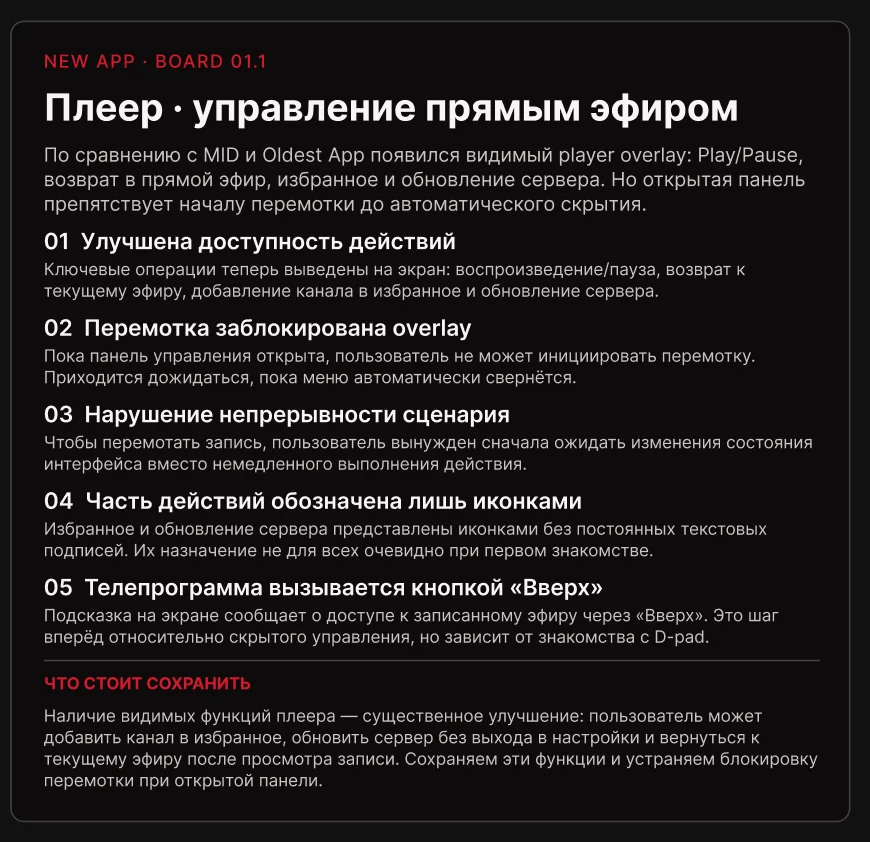
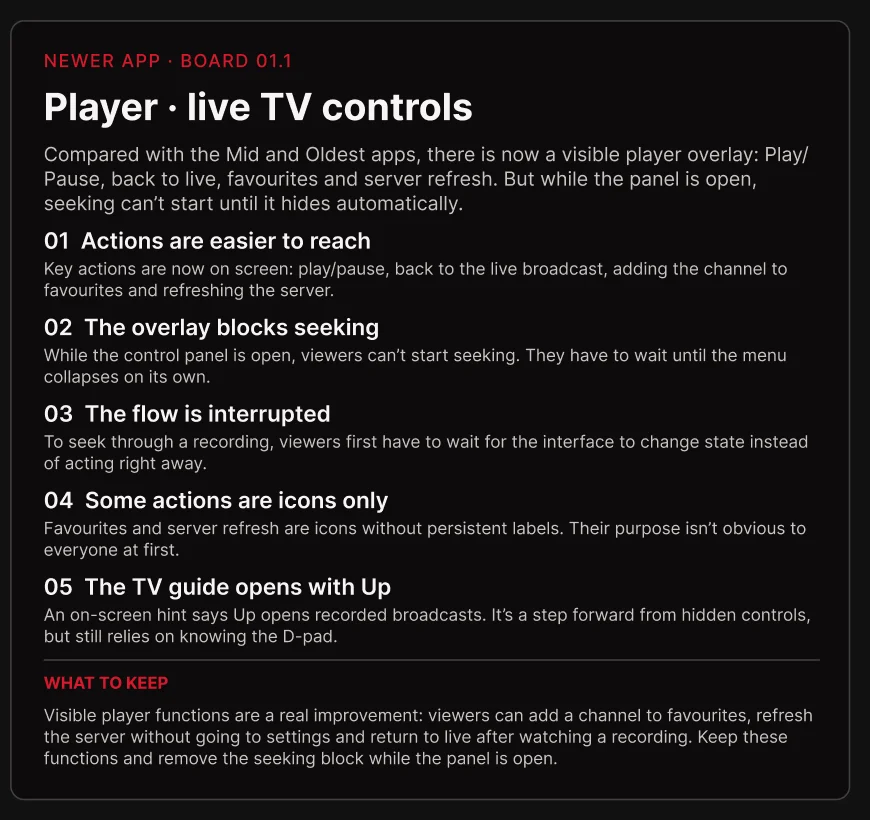
Audit page: English Newer app boards, pain points and journey map
Claude-Session: https://claude.ai/code/session_01SPxUN71HcQkaLBR8t2uXXX

Changed region(s): [[0.031, 0.061, 0.931, 0.9451]]

diff --git a/audit/index.html b/audit/index.html
@@ -156,22 +156,22 @@ summary:focus-visible{outline:3px solid var(--red);outline-offset:4px;border-rad
 </details>
 </section>
 <section id="newer">
-<p class="kick">Generation 3</p><h2>Newer app</h2><p class="plat">Android TV, Fire TV, etvnet box</p><p>Opens in Live TV with a short top menu. Search finally got suggestions, but the archive is still show → seasons → year → cycle before Watch.</p><p class="note">The boards for this generation were written in Russian during the audit and are shown as they are.</p>
+<p class="kick">Generation 3</p><h2>Newer app</h2><p class="plat">Android TV, Fire TV, etvnet box</p><p>Opens in Live TV with a short top menu. Search finally got suggestions, but the archive is still show → seasons → year → cycle before Watch.</p>
 <h3>Pain points and benefits</h3>
 <p>Sticky notes collected from every board: red is what gets in the way of watching, green is what works and is worth keeping.</p>
-<a class="zoom full" href="img/pain-newer.webp" target="_blank" rel="noopener"><img src="img/pain-newer.webp" alt="Newer app pain points and benefits board" width="2408" height="1453" loading="lazy"></a>
+<a class="zoom full" href="img/pain-newer.webp" target="_blank" rel="noopener"><img src="img/pain-newer.webp" alt="Newer app pain points and benefits board" width="2408" height="1489" loading="lazy"></a>
 <h3>User journey map</h3>
 <p>The same scenario in every generation: find a specific episode of “What? Where? When?” and start it. Each step shows the screen, the action, the viewer’s likely thoughts, pain points, opportunities and an emotion curve. Thoughts and emotions are a hypothesis built from the audit, not interview data.</p>
-<div class="wide"><a class="zoom full" href="img/jm-newer.webp" target="_blank" rel="noopener"><img src="img/jm-newer.webp" alt="Newer app user journey map" width="4500" height="1954" loading="lazy"></a></div>
+<div class="wide"><a class="zoom full" href="img/jm-newer.webp" target="_blank" rel="noopener"><img src="img/jm-newer.webp" alt="Newer app user journey map" width="4500" height="1930" loading="lazy"></a></div>
 <details><summary>Screen-by-screen analysis · 7 boards</summary>
 <p class="hint">Each board names five problems on the screen and what to keep from it. Open any image to see it full size.</p>
-<div class="pair"><a class="zoom shot" href="img/newer-01-screen.webp" target="_blank" rel="noopener"><img src="img/newer-01-screen.webp" alt="Newer app screen, board 01" width="1400" height="778" loading="lazy"></a><a class="zoom board" href="img/newer-01-board.webp" target="_blank" rel="noopener"><img src="img/newer-01-board.webp" alt="Newer app audit board 01" width="870" height="1051" loading="lazy"></a></div>
-<div class="pair"><a class="zoom shot" href="img/newer-01.1-screen.webp" target="_blank" rel="noopener"><img src="img/newer-01.1-screen.webp" alt="Newer app screen, board 01.1" width="1393" height="764" loading="lazy"></a><a class="zoom board" href="img/newer-01.1-board.webp" target="_blank" rel="noopener"><img src="img/newer-01.1-board.webp" alt="Newer app audit board 01.1" width="870" height="842" loading="lazy"></a></div>
-<div class="pair"><a class="zoom shot" href="img/newer-01.2-screen.webp" target="_blank" rel="noopener"><img src="img/newer-01.2-screen.webp" alt="Newer app screen, board 01.2" width="1400" height="757" loading="lazy"></a><a class="zoom board" href="img/newer-01.2-board.webp" target="_blank" rel="noopener"><img src="img/newer-01.2-board.webp" alt="Newer app audit board 01.2" width="870" height="888" loading="lazy"></a></div>
-<div class="pair"><a class="zoom shot" href="img/newer-02-screen.webp" target="_blank" rel="noopener"><img src="img/newer-02-screen.webp" alt="Newer app screen, board 02" width="1400" height="780" loading="lazy"></a><a class="zoom board" href="img/newer-02-board.webp" target="_blank" rel="noopener"><img src="img/newer-02-board.webp" alt="Newer app audit board 02" width="870" height="821" loading="lazy"></a></div>
-<div class="pair"><a class="zoom shot" href="img/newer-02.1-screen.webp" target="_blank" rel="noopener"><img src="img/newer-02.1-screen.webp" alt="Newer app screen, board 02.1" width="1400" height="778" loading="lazy"></a><a class="zoom board" href="img/newer-02.1-board.webp" target="_blank" rel="noopener"><img src="img/newer-02.1-board.webp" alt="Newer app audit board 02.1" width="870" height="841" loading="lazy"></a></div>
+<div class="pair"><a class="zoom shot" href="img/newer-01-screen.webp" target="_blank" rel="noopener"><img src="img/newer-01-screen.webp" alt="Newer app screen, board 01" width="1400" height="778" loading="lazy"></a><a class="zoom board" href="img/newer-01-board.webp" target="_blank" rel="noopener"><img src="img/newer-01-board.webp" alt="Newer app audit board 01" width="870" height="984" loading="lazy"></a></div>
+<div class="pair"><a class="zoom shot" href="img/newer-01.1-screen.webp" target="_blank" rel="noopener"><img src="img/newer-01.1-screen.webp" alt="Newer app screen, board 01.1" width="1393" height="764" loading="lazy"></a><a class="zoom board" href="img/newer-01.1-board.webp" target="_blank" rel="noopener"><img src="img/newer-01.1-board.webp" alt="Newer app audit board 01.1" width="870" height="820" loading="lazy"></a></div>
+<div class="pair"><a class="zoom shot" href="img/newer-01.2-screen.webp" target="_blank" rel="noopener"><img src="img/newer-01.2-screen.webp" alt="Newer app screen, board 01.2" width="1400" height="757" loading="lazy"></a><a class="zoom board" href="img/newer-01.2-board.webp" target="_blank" rel="noopener"><img src="img/newer-01.2-board.webp" alt="Newer app audit board 01.2" width="870" height="842" loading="lazy"></a></div>
+<div class="pair"><a class="zoom shot" href="img/newer-02-screen.webp" target="_blank" rel="noopener"><img src="img/newer-02-screen.webp" alt="Newer app screen, board 02" width="1400" height="780" loading="lazy"></a><a class="zoom board" href="img/newer-02-board.webp" target="_blank" rel="noopener"><img src="img/newer-02-board.webp" alt="Newer app audit board 02" width="870" height="820" loading="lazy"></a></div>
+<div class="pair"><a class="zoom shot" href="img/newer-02.1-screen.webp" target="_blank" rel="noopener"><img src="img/newer-02.1-screen.webp" alt="Newer app screen, board 02.1" width="1400" height="778" loading="lazy"></a><a class="zoom board" href="img/newer-02.1-board.webp" target="_blank" rel="noopener"><img src="img/newer-02.1-board.webp" alt="Newer app audit board 02.1" width="870" height="820" loading="lazy"></a></div>
 <div class="pair"><a class="zoom shot" href="img/newer-03-screen.webp" target="_blank" rel="noopener"><img src="img/newer-03-screen.webp" alt="Newer app screen, board 03" width="1400" height="779" loading="lazy"></a><a class="zoom board" href="img/newer-03-board.webp" target="_blank" rel="noopener"><img src="img/newer-03-board.webp" alt="Newer app audit board 03" width="870" height="820" loading="lazy"></a></div>
-<div class="pair"><a class="zoom shot" href="img/newer-03.1-screen.webp" target="_blank" rel="noopener"><img src="img/newer-03.1-screen.webp" alt="Newer app screen, board 03.1" width="1400" height="774" loading="lazy"></a><a class="zoom board" href="img/newer-03.1-board.webp" target="_blank" rel="noopener"><img src="img/newer-03.1-board.webp" alt="Newer app audit board 03.1" width="870" height="845" loading="lazy"></a></div>
+<div class="pair"><a class="zoom shot" href="img/newer-03.1-screen.webp" target="_blank" rel="noopener"><img src="img/newer-03.1-screen.webp" alt="Newer app screen, board 03.1" width="1400" height="774" loading="lazy"></a><a class="zoom board" href="img/newer-03.1-board.webp" target="_blank" rel="noopener"><img src="img/newer-03.1-board.webp" alt="Newer app audit board 03.1" width="870" height="820" loading="lazy"></a></div>
 </details>
 </section>
 <section id="carry">
